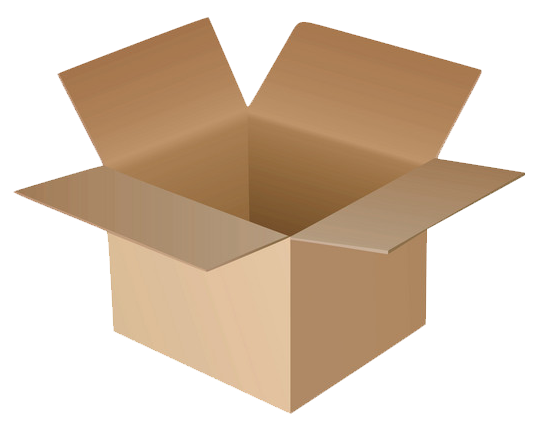
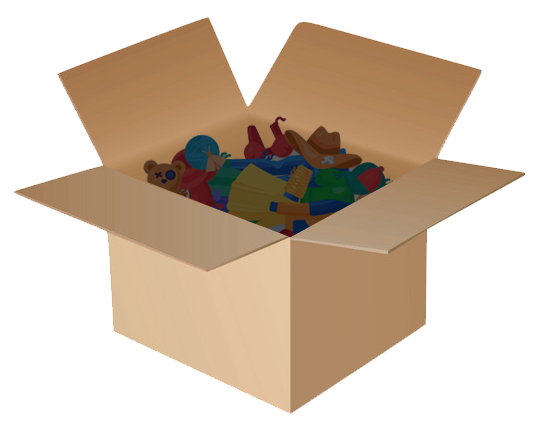
functional home page box with toy links

Changed region(s): [[0.2682, 0.2721, 0.7449, 0.5442]]

diff --git a/index.html b/index.html
@@ -14,20 +14,48 @@
     <title>The 2000s ToyBox</title>
 </head>
 <body>
-    <header>
-        <div class="homepage-header">
-            <h1>The 2000s ToyBox</h1>
-        </div>
-    </header>
-    <body>
-        <div class="toybox-container">
-            <img src="images/index/box-closed.png" alt="closed toybox">
-            <img src="images/index/sparkle.gif" alt="sparkle effect">
-            <img src="images/index/box-open.png" alt="open toybox">
-        </div>
-    </body>
-    <footer>
-
-    </footer>
+    <div class="container">
+        <header>
+            <div class="homepage-header">
+                <h1>The 2000s ToyBox</h1>
+            </div>
+        </header>
+        <main>
+            <div class="toybox-container">
+                <img src="images/index/box-closed.png" alt="closed toybox" id="box-closed">
+                <img src="images/index/sparkle.gif" alt="sparkle effect" id="sparkle">
+                
+                <div class="toybox-wrapper">
+                    <img src="images/index/box-open.png" alt="open toybox" id="box-open">
+                    <a href="hot-wheels.html">
+                        <img src="images/index/hotwheel.webp" alt="hot wheel car toy" id="toy3" class="toys">
+                    </a>
+                    <a href="tamagotchi.html">
+                        <img src="images/index/tamagotchi.webp" alt="tamagotchi game toy" id="toy4" class="toys">
+                    </a>
+                    <a href="zhuzhu-pets.html">
+                        <img src="images/index/zhuzhu.png" alt="purple zhu zhu pet toy" id="toy5" class="toys">
+                    </a>
+                    <a href="index.html">
+                        <img src="images/index/furby.png" alt="blue furby toy" id="toy2" class="toys">
+                    </a>
+                    <a href="index.html">
+                        <img src="images/index/trashpack.webp" alt="trash pack garbage toy" id="toy1" class="toys">
+                    </a>
+                </div>
+            </div>
+            <div class="content-container">
+                <div class="content-1">
+                    <p>blah blah</p>
+                </div>
+                <div class="content-2">
+                    <p>blah blah 2</p>
+                    <a href="credits.html">Who Are We?</a>
+                </div>
+            </div>
+        </main>
+        <footer>Website Created by Team Toys</footer>
+    </div>
+    <script src="scripts/box-animation.js"></script>
 </body>
 </html>

diff --git a/styles/index.css b/styles/index.css
@@ -1,5 +1,123 @@
+body{
+    background-color:antiquewhite;
+    font-family: "Fredoka";
+}
+
+.container {
+    display: grid;
+    justify-content: center;
+    align-items: center;
+    grid-template-columns: 1fr;
+    grid-template-rows: auto auto auto;
+    padding: 50px;
+    margin-right: 5%;
+    margin-left: 5%;
+}
+
+header {
+    display: flex;
+    justify-content: center;
+    padding: 30px;
+    border-top-left-radius: 20px;
+    border-top-right-radius: 20px;
+    background: linear-gradient(to bottom, #82df8a, #8ac0f9); /* Gradient background */
+    position: relative;
+    width: 100%;
+}
+
 h1{
     font-size: 80px;
     text-align: center;
+}
+
+main{
+    background-color: #a3a9dd;
+}
+
+.toybox-container{
+    position: relative; 
+    display: flex;
+    justify-content: center;
+    align-items: center;
+    margin: 30px 0px;
+}
+
+.toybox-wrapper{
+    position: relative;
+    display:inline-block
+}
+
+/*#box-closed, #sparkle{
+    display:none
+}
+for testing purposes, comment below and uncomment this to test toy placement, etc*/
+
+#box-open, #sparkle, .toys {
+    display: none;
+}
+
+.toys{
+    position: absolute;
+    width: 80px; 
+    cursor: pointer;
+    transition: transform 0.2s ease-in-out;
+    filter: drop-shadow(0px -4px 8px rgba(255, 255, 255, 0.4)) 
+        drop-shadow(0px 8px 8px rgba(0, 0, 0, 1));
+}
+
+#toy1 {
+    filter: drop-shadow(0px -4px 8px rgba(255, 255, 255, 0.4)); 
+}
+
+.toys:hover {
+    transform: scale(1.2);
+}
+
+#toy1 { top: 33%; left: 38%; } /* trashpack */
+#toy2 { top: 34%; left: 49%; } /* furby */
+#toy3 { top: 28%; left: 58%; } /* hotwheel */
+#toy4 { top: 19%; left: 40%; } /* tamagotchi */
+#toy5 { top: 28%; left: 27%; } /* zhuzhu */
+
+#sparkle {
+    position: absolute;
+    top: 50%;
+    left: 50%;
+    transform: translate(-50%, -50%);
+}
+
+.fade-in {
+    animation: fadeIn 1s forwards;
+}
+.fade-out {
+    animation: fadeOut 1s forwards;
+}
+@keyframes fadeIn {
+    from { opacity: 0.4; }
+    to { opacity: 1; }
+}
+@keyframes fadeOut {
+    from { opacity: 1; }
+    to { opacity: 0; }
+}
+
+
+.content-container{
+    display: grid;
+    justify-content: center;
+    align-items: center;
+    text-align: center;
+    grid-template-columns: 1fr 1fr;
+    grid-template-rows: auto;
+}
+
+footer {
+    display: flex;
+    justify-content: center;
+    padding: 20px;
+    border-bottom-left-radius: 20px;
+    border-bottom-right-radius: 20px;
+    color: rgb(247, 233, 188);
+    background-color: rgb(129, 202, 236);
 }
 

diff --git a/scripts/box-animation.js b/scripts/box-animation.js
@@ -1,0 +1,18 @@
+document.getElementById("box-closed").addEventListener("click", function() {
+    document.getElementById("sparkle").style.display = "inline";
+    document.getElementById("box-closed").classList.add("fade-out");
+
+    setTimeout(function() {
+        sparkle.classList.add("fade-out");
+        
+        document.getElementById("box-closed").style.display = "none"; 
+        document.getElementById("box-open").style.display = "inline"; 
+        document.getElementById("box-open").classList.add("fade-in"); 
+        
+        
+        document.querySelectorAll(".toys").forEach(toy => {
+            toy.classList.add("fade-in");
+            toy.style.display = "inline";
+        });
+    }, 1000); 
+});

diff --git a/styles/general.css b/styles/general.css
@@ -1,7 +1,3 @@
-body{
-    
-}
-
 h1{
     font-family: "Baloo 2";
     font-weight: 700;
